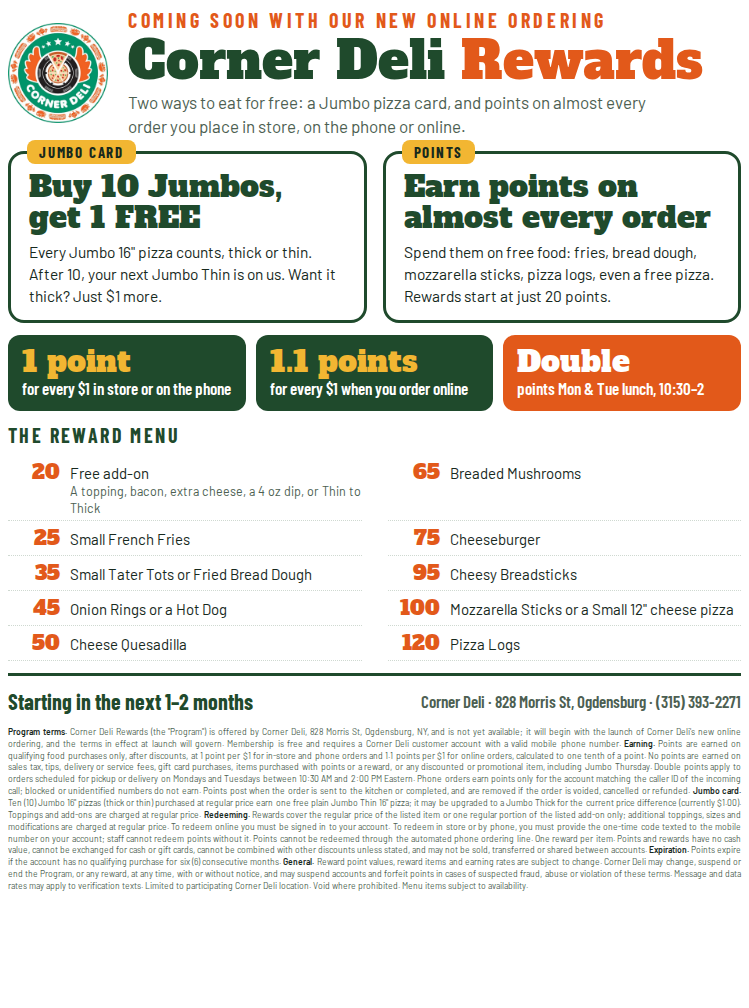
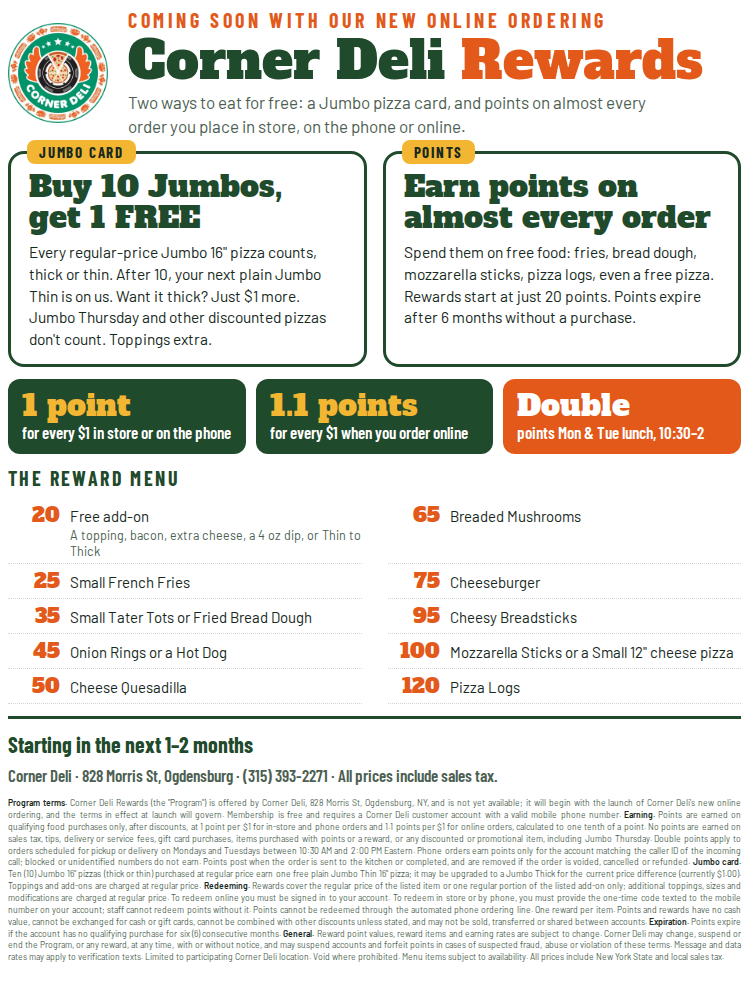
Rewards flyer: conditions next to the free offers, "prices include sales tax"

Changed region(s): [[0.0, 0.246, 1.0, 0.9534]]

diff --git a/docs/rewards-flyer-source.html b/docs/rewards-flyer-source.html
@@ -80,12 +80,12 @@ h1 em { font-style: normal; color: var(--orange); }
     <div class="program">
       <span class="tag">Jumbo card</span>
       <h2>Buy 10 Jumbos, get 1 FREE</h2>
-      <p>Every Jumbo 16" pizza counts, thick or thin. After 10, your next Jumbo Thin is on us. Want it thick? Just $1 more.</p>
+      <p>Every regular-price Jumbo 16" pizza counts, thick or thin. After 10, your next plain Jumbo Thin is on us. Want it thick? Just $1 more. Jumbo Thursday and other discounted pizzas don't count. Toppings extra.</p>
     </div>
     <div class="program">
       <span class="tag">Points</span>
       <h2>Earn points on almost every order</h2>
-      <p>Spend them on free food: fries, bread dough, mozzarella sticks, pizza logs, even a free pizza. Rewards start at just 20 points.</p>
+      <p>Spend them on free food: fries, bread dough, mozzarella sticks, pizza logs, even a free pizza. Rewards start at just 20 points. Points expire after 6 months without a purchase.</p>
     </div>
   </section>
 
@@ -113,8 +113,8 @@ h1 em { font-style: normal; color: var(--orange); }
 
   <div class="launch">
     <strong>Starting in the next 1–2 months</strong>
-    <span>Corner Deli · 828 Morris St, Ogdensburg · (315) 393-2271</span>
+    <span>Corner Deli · 828 Morris St, Ogdensburg · (315) 393-2271 · All prices include sales tax.</span>
   </div>
 
-  <p class="fine"><b>Program terms.</b> Corner Deli Rewards (the "Program") is offered by Corner Deli, 828 Morris St, Ogdensburg, NY, and is not yet available; it will begin with the launch of Corner Deli's new online ordering, and the terms in effect at launch will govern. Membership is free and requires a Corner Deli customer account with a valid mobile phone number. <b>Earning.</b> Points are earned on qualifying food purchases only, after discounts, at 1 point per $1 for in-store and phone orders and 1.1 points per $1 for online orders, calculated to one tenth of a point. No points are earned on sales tax, tips, delivery or service fees, gift card purchases, items purchased with points or a reward, or any discounted or promotional item, including Jumbo Thursday. Double points apply to orders scheduled for pickup or delivery on Mondays and Tuesdays between 10:30 AM and 2:00 PM Eastern. Phone orders earn points only for the account matching the caller ID of the incoming call; blocked or unidentified numbers do not earn. Points post when the order is sent to the kitchen or completed, and are removed if the order is voided, cancelled or refunded. <b>Jumbo card.</b> Ten (10) Jumbo 16" pizzas (thick or thin) purchased at regular price earn one free plain Jumbo Thin 16" pizza; it may be upgraded to a Jumbo Thick for the current price difference (currently $1.00). Toppings and add-ons are charged at regular price. <b>Redeeming.</b> Rewards cover the regular price of the listed item or one regular portion of the listed add-on only; additional toppings, sizes and modifications are charged at regular price. To redeem online you must be signed in to your account. To redeem in store or by phone, you must provide the one-time code texted to the mobile number on your account; staff cannot redeem points without it. Points cannot be redeemed through the automated phone ordering line. One reward per item. Points and rewards have no cash value, cannot be exchanged for cash or gift cards, cannot be combined with other discounts unless stated, and may not be sold, transferred or shared between accounts. <b>Expiration.</b> Points expire if the account has no qualifying purchase for six (6) consecutive months. <b>General.</b> Reward point values, reward items and earning rates are subject to change. Corner Deli may change, suspend or end the Program, or any reward, at any time, with or without notice, and may suspend accounts and forfeit points in cases of suspected fraud, abuse or violation of these terms. Message and data rates may apply to verification texts. Limited to participating Corner Deli location. Void where prohibited. Menu items subject to availability.</p>
+  <p class="fine"><b>Program terms.</b> Corner Deli Rewards (the "Program") is offered by Corner Deli, 828 Morris St, Ogdensburg, NY, and is not yet available; it will begin with the launch of Corner Deli's new online ordering, and the terms in effect at launch will govern. Membership is free and requires a Corner Deli customer account with a valid mobile phone number. <b>Earning.</b> Points are earned on qualifying food purchases only, after discounts, at 1 point per $1 for in-store and phone orders and 1.1 points per $1 for online orders, calculated to one tenth of a point. No points are earned on sales tax, tips, delivery or service fees, gift card purchases, items purchased with points or a reward, or any discounted or promotional item, including Jumbo Thursday. Double points apply to orders scheduled for pickup or delivery on Mondays and Tuesdays between 10:30 AM and 2:00 PM Eastern. Phone orders earn points only for the account matching the caller ID of the incoming call; blocked or unidentified numbers do not earn. Points post when the order is sent to the kitchen or completed, and are removed if the order is voided, cancelled or refunded. <b>Jumbo card.</b> Ten (10) Jumbo 16" pizzas (thick or thin) purchased at regular price earn one free plain Jumbo Thin 16" pizza; it may be upgraded to a Jumbo Thick for the current price difference (currently $1.00). Toppings and add-ons are charged at regular price. <b>Redeeming.</b> Rewards cover the regular price of the listed item or one regular portion of the listed add-on only; additional toppings, sizes and modifications are charged at regular price. To redeem online you must be signed in to your account. To redeem in store or by phone, you must provide the one-time code texted to the mobile number on your account; staff cannot redeem points without it. Points cannot be redeemed through the automated phone ordering line. One reward per item. Points and rewards have no cash value, cannot be exchanged for cash or gift cards, cannot be combined with other discounts unless stated, and may not be sold, transferred or shared between accounts. <b>Expiration.</b> Points expire if the account has no qualifying purchase for six (6) consecutive months. <b>General.</b> Reward point values, reward items and earning rates are subject to change. Corner Deli may change, suspend or end the Program, or any reward, at any time, with or without notice, and may suspend accounts and forfeit points in cases of suspected fraud, abuse or violation of these terms. Message and data rates may apply to verification texts. Limited to participating Corner Deli location. Void where prohibited. Menu items subject to availability. All prices include New York State and local sales tax.</p>
 </div>
